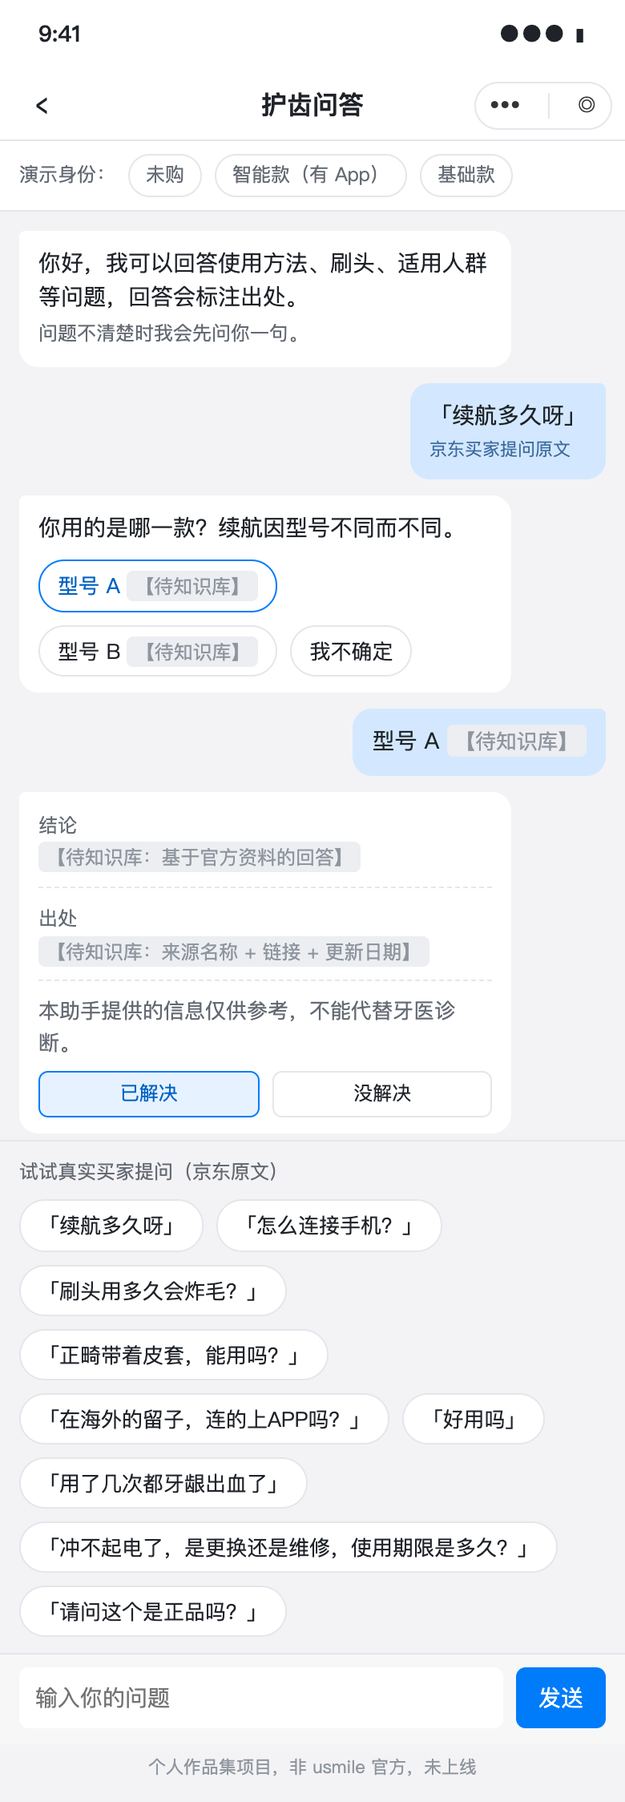
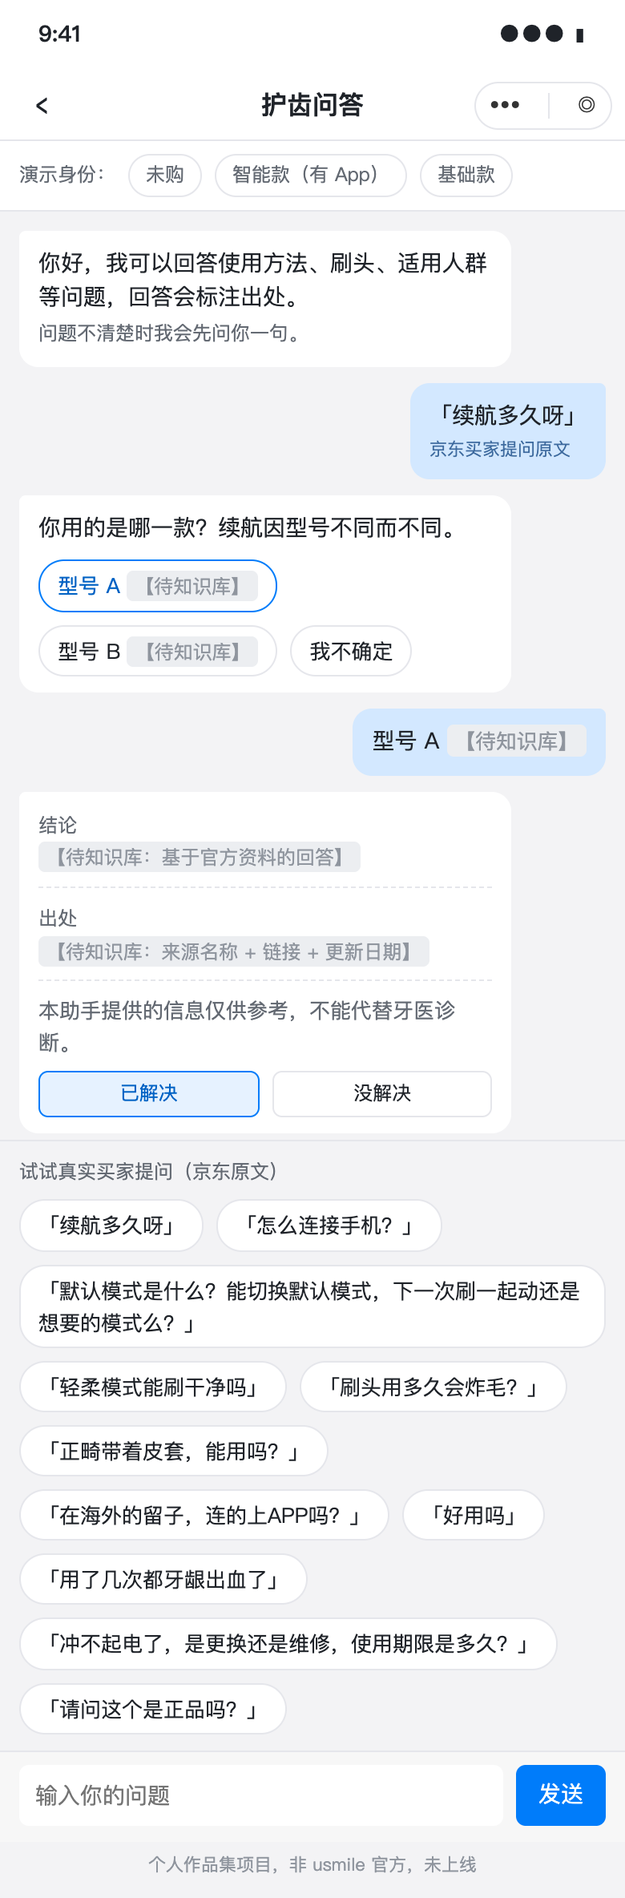
原型对齐 PRD 2.3.8–2.3.11 与 E-21–E-25：首页两个入口、画像同步不含预算、Q088 设置引导、V2 模拟设备数据回答
- 首页恢复“还没买 / 已经买了”两个入口；分流屏只给已购用户（智能款 / 基础款 / 我不确定）
- 引导绑定：“去 App 绑定”进入授权页；画像同步只列 4 项、不同步预算，拒绝不影响绑定
- 问答新增 Q088（智能款 → 简要说明 + 去 App 设置）、Q117（V2，醒目标注“模拟设备数据，仅作演示，非真实用户”）
- README 对照表改用 PRD 新章节号和 E-01–E-25；截图 24 张，溢出检查通过，引用 27 条 0 错误

diff --git a/prototype/index.html b/prototype/index.html
@@ -149,6 +149,9 @@ input[type=date]{font:inherit;padding:8px 10px;border:1.5px solid var(--line);bo
 .synclist .k{color:var(--sub);font-size:12px;display:block}
 .who{display:flex;align-items:center;gap:8px;padding:8px 12px;background:var(--card);border-bottom:1px solid var(--line);font-size:12px;color:var(--sub)}
 .who .seg button{padding:3px 10px;font-size:12px}
+.simdata{border:2px dashed var(--warn);background:var(--warn-weak);border-radius:8px;padding:8px 10px;font-size:12px;margin-bottom:8px;color:var(--text)}
+.simdata b{color:var(--warn);font-size:13px}
+.tag.v2s{background:var(--demo);color:#fff;margin-left:6px}
 .appbtn{display:inline-block;margin-top:8px;background:var(--brand);color:#fff;border-radius:16px;padding:5px 14px;font-size:13px}
 @media (max-width:700px){
   .stage{padding:0;display:block}
@@ -164,7 +167,7 @@ input[type=date]{font:inherit;padding:8px 10px;border:1.5px solid var(--line);bo
     <div>微信小程序样式，9 屏。小程序是所有 usmile 用户的轻入口，智能款的设备设置和报告交给笑容加 App。点击手机内按钮按真实流程跳转，也可从这里直接跳。</div>
     <ol id="sideNav">
       <li><a href="#home">首页</a></li>
-      <li><a href="#route">选择你的情况（按型号分流）</a></li>
+      <li><a href="#route">选择你的型号（按型号分流）</a></li>
       <li><a href="#quiz">选购测评（5 题）</a></li>
       <li><a href="#rec">推荐卡</a></li>
       <li><a href="#bind">引导绑定笑容加 App（智能款）</a></li>
@@ -191,32 +194,28 @@ input[type=date]{font:inherit;padding:8px 10px;border:1.5px solid var(--line);bo
           <div class="h2">你好，想先做什么？</div>
           <div class="sub">不用登录，直接开始</div>
         </div>
+        <button class="entry" data-go="quiz">
+          <span class="ic">🛒</span>
+          <span><span class="t">还没买，帮我选</span><br><span class="small">5 道题，约 1 分钟，推荐适合你的型号</span></span>
+          <span class="arr">›</span>
+        </button>
         <button class="entry" data-go="route">
           <span class="ic">🪥</span>
-          <span><span class="t">开始：选择你的情况</span><br><span class="small">还没买 / 已买智能款 / 已买基础款，按型号走不同路线</span></span>
+          <span><span class="t">已经买了，教我用</span><br><span class="small">先选型号，再给对应的使用帮助</span></span>
           <span class="arr">›</span>
         </button>
-        <button class="entry" data-go="chat">
-          <span class="ic">💬</span>
-          <span><span class="t">直接提问</span><br><span class="small">使用方法、刷头、适用人群，回答标注出处</span></span>
-          <span class="arr">›</span>
-        </button>
+        <div style="text-align:center;margin:-2px 0 14px"><a href="#chat" class="small" style="color:var(--brand)">有问题？直接提问 ›</a></div>
         <div class="note">本助手为个人作品集原型，非 usmile 官方。推荐只在 usmile 产品内进行。</div>
         <div class="disclaimer"><b>免责声明：</b>本助手提供的信息仅供参考，不能代替牙医诊断。</div>
       </div>
       <div class="foot">个人作品集项目，非 usmile 官方，未上线</div>
     </section>
 
-    <!-- 2 选择你的情况（按型号分流） -->
-    <section class="screen" id="s-route" data-title="选择你的情况">
+    <!-- 2 选择你的型号（按型号分流） -->
+    <section class="screen" id="s-route" data-title="选择你的型号">
       <div class="body">
         <div class="h2" style="font-size:18px">你的牙刷是哪一款？</div>
-        <div class="sub" style="margin-bottom:14px">按型号走不同路线；笑容加 App 已有的功能，小程序不重复做</div>
-        <button class="entry" data-route="presale">
-          <span class="ic">🛒</span>
-          <span><span class="t">还没买，帮我选</span><br><span class="small">5 道题，约 1 分钟，推荐适合你的型号</span></span>
-          <span class="arr">›</span>
-        </button>
+        <div class="sub" style="margin-bottom:14px">按 App 适配列表分流；笑容加 App 已有的功能，小程序不重复做</div>
         <button class="entry" data-route="smart">
           <span class="ic">📱</span>
           <span><span class="t">已买 · 智能款</span><br><span class="small">支持笑容加 App：<span class="ph">【待知识库：App 适配机型】</span></span><br><span class="small">去 App 绑定；设备设置和报告在 App 里</span></span>
@@ -227,8 +226,12 @@ input[type=date]{font:inherit;padding:8px 10px;border:1.5px solid var(--line);bo
           <span><span class="t">已买 · 基础款</span><br><span class="small">不连 App，如 P10：<span class="ph">【待知识库：基础款机型】</span></span><br><span class="small">首次设置建议 + 刷头更换提醒</span></span>
           <span class="arr">›</span>
         </button>
-        <div class="disclaimer">不确定自己的型号？查看方法：<span class="ph">【待知识库：官方查看型号的方法】</span>。是否支持 App 以官网下载页为准。</div>
-        <div class="small" style="margin-top:10px">三条路线都可以随时进入问答。</div>
+        <button class="entry" data-route="unsure">
+          <span class="ic" style="color:var(--brand);font-weight:700">?</span>
+          <span><span class="t">我不确定</span><br><span class="small">先给通用建议；查看型号方法：<span class="ph">【待知识库】</span></span></span>
+          <span class="arr">›</span>
+        </button>
+        <div class="disclaimer">是否支持 App 以官网适配列表为准 <span class="ph">【待核实】</span>。两条路线都保留问答入口。</div>
       </div>
       <div class="foot">个人作品集项目，非 usmile 官方，未上线</div>
     </section>
@@ -310,11 +313,10 @@ input[type=date]{font:inherit;padding:8px 10px;border:1.5px solid var(--line);bo
         </div>
         <div class="card">
           <div class="step"><span class="n">1</span><div><div style="font-weight:600">下载笑容加 App</div><div class="small">入口：<span class="ph">【待知识库：官方下载入口】</span></div><button class="btn" id="dlBtn">去下载</button></div></div>
-          <div class="step"><span class="n">2</span><div><div style="font-weight:600">在 App 里添加设备并绑定</div><div class="small">步骤：<span class="ph">【待知识库：官方绑定步骤】</span></div></div></div>
-          <div class="step"><span class="n">3</span><div><div style="font-weight:600">把测评结果同步到 App（可选）</div><div class="small">绑定时同步一次，让 App 一开始就按你的情况给建议</div><button class="btn" data-go="sync">去同步</button></div></div>
+          <div class="step"><span class="n">2</span><div><div style="font-weight:600">在 App 里添加设备并绑定</div><div class="small">步骤：<span class="ph">【待知识库：官方绑定步骤】</span><br>做过选购测评的话，绑定前会问你是否同步测评结果</div><button class="btn" data-go="sync">去 App 绑定</button></div></div>
         </div>
-        <button class="btn ghost" data-go="chat">有问题？去问答</button>
-        <div class="disclaimer"><b>说明：</b>本原型只演示跳转到笑容加 App，App 内页面不在原型范围。</div>
+        <div class="row"><button class="btn ghost" data-app-set>已绑定，去 App 设置</button><button class="btn ghost" data-go="chat">有问题？去问答</button></div>
+        <div class="disclaimer"><b>说明：</b>智能款不显示首次设置和刷头更换提醒，这些在 App 里完成。本原型只演示跳转到笑容加 App，App 内页面不在原型范围。</div>
       </div>
       <div class="foot">个人作品集项目，非 usmile 官方，未上线</div>
     </section>
@@ -324,18 +326,19 @@ input[type=date]{font:inherit;padding:8px 10px;border:1.5px solid var(--line);bo
       <div class="body">
         <div class="card">
           <div style="font-size:17px;font-weight:600;margin-bottom:4px">把你的测评结果同步到笑容加 App？</div>
-          <div class="sub">绑定牙刷时同步一次，用于 App 一开始的使用建议</div>
+          <div class="sub">绑定牙刷时同步一次，用于 App 一开始的使用建议；不同步预算</div>
         </div>
         <div class="card">
-          <div style="font-weight:600">将同步的内容</div>
+          <div style="font-weight:600">将同步的内容（4 项）</div>
           <ul class="synclist" id="syncList"></ul>
         </div>
         <div class="card">
           <div style="font-weight:600;margin-bottom:6px">授权说明</div>
-          <div class="small">· 只同步上面的测评答案，只同步这一次，之后不自动同步<br>· 牙齿情况属于健康相关信息，需要你单独同意<br>· 可以撤回：<span class="ph">【待核实：撤回方式与 App 侧规则】</span><br>· 不同意也不影响使用小程序和 App</div>
+          <div class="small">· 只同步上面 4 项测评结果，<b>不同步预算</b>；只同步这一次<br>· 牙齿情况属于健康相关信息，需要你单独同意<br>· 可以撤回：<span class="ph">【待核实：撤回方式与 App 侧规则】</span><br>· 不同意也不影响绑定和使用</div>
         </div>
-        <div class="row" id="syncBtns"><button class="btn ghost" id="syncNo">暂不同步</button><button class="btn" id="syncYes">同意同步</button></div>
+        <div class="row" id="syncBtns"><button class="btn ghost" id="syncNo">不同步，去绑定</button><button class="btn" id="syncYes">同意并去绑定</button></div>
         <div class="small" id="syncState" style="text-align:center;margin-top:10px"></div>
+        <button class="btn" id="syncSkip" style="display:none;margin-top:10px">去 App 绑定</button>
         <button class="btn ghost" data-go="chat" style="margin-top:10px">去问答</button>
       </div>
       <div class="foot">个人作品集项目，非 usmile 官方，未上线</div>
@@ -414,6 +417,8 @@ input[type=date]{font:inherit;padding:8px 10px;border:1.5px solid var(--line);bo
         <div class="chips" id="exampleChips">
           <button class="chip" data-kind="followup">「续航多久呀」<!-- Q052 --></button>
           <button class="chip" data-kind="answer">「怎么连接手机？」<!-- Q020 --></button>
+          <button class="chip" data-kind="setting">「默认模式是什么？能切换默认模式，下一次刷一起动还是想要的模式么？」<!-- Q088 --></button>
+          <button class="chip" data-kind="gentle">「轻柔模式能刷干净吗」<!-- Q117 --></button>
           <button class="chip" data-kind="head">「刷头用多久会炸毛？」<!-- Q035 --></button>
           <button class="chip" data-kind="ortho">「正畸带着皮套，能用吗？」<!-- Q089 --></button>
           <button class="chip" data-kind="nodata">「在海外的留子，连的上APP吗？」<!-- Q012 --></button>
@@ -594,23 +599,27 @@ input[type=date]{font:inherit;padding:8px 10px;border:1.5px solid var(--line);bo
   $('#s-route').addEventListener('click', function(e){
     var b = e.target.closest('[data-route]'); if(!b) return;
     var r = b.dataset.route; setWho(r);
-    if(r==='presale'){ qi = 0; go('quiz'); } else if(r==='smart') go('bind'); else go('setup');
+    if(r==='smart') go('bind'); else if(r==='unsure'){ st = {model:'unsure'}; $('#setupResult').style.display='none'; go('setup'); } else go('setup');
   });
   $('#dlBtn').onclick = function(){ toast('原型：跳转笑容加 App 下载页 · 【待知识库】'); };
 
   // ---------- 画像同步 ----------
   function renderSync(){
     setWho('smart');
-    var has = ans.some(function(a){return a.length});
-    $('#syncList').innerHTML = has ? Q.map(function(q,k){
-      var v = ans[k].map(function(i){return plain(q.opts[i])}).join('、') || '（未作答）';
-      if(k===0) v = v.replace('官方价格','');
-      return '<li><span class="k">'+q.t+'</span>'+(k===0 && ans[0].length ? '价位段 '+(ans[0][0]+1) : v)+'</li>';
-    }).join('') : '<li>你还没做过选购测评，没有可同步的内容。<br><a href="#route" style="color:var(--brand)">去做测评 ›</a></li>';
+    // 只同步第 2–5 题，不同步预算（PRD 2.3.10）
+    var has = [1,2,3,4].some(function(k){return ans[k].length});
+    $('#syncList').innerHTML = has ? [1,2,3,4].map(function(k){
+      var q = Q[k], v = ans[k].map(function(i){return plain(q.opts[i])}).join('、') || '（未作答）';
+      return '<li><span class="k">'+q.t+'</span>'+v+'</li>';
+    }).join('') : '<li>你还没做过选购测评，没有可同步的内容，直接去绑定即可。</li>';
     $('#syncBtns').style.display = has ? 'flex' : 'none';
+    $('#syncSkip').style.display = has ? 'none' : 'block';
+    $('#syncState').textContent = '';
   }
-  $('#syncYes').onclick = function(){ $('#syncState').textContent = '已同步到笑容加 App（原型模拟），只同步这一次'; $('#syncBtns').style.display='none'; };
-  $('#syncNo').onclick = function(){ $('#syncState').textContent = '未同步，不影响使用；之后可以在这里再同步'; $('#syncBtns').style.display='none'; };
+  $('#syncYes').onclick = function(){ $('#syncState').textContent = '已同意：4 项测评结果将在绑定时同步一次（原型模拟）'; $('#syncBtns').style.display='none'; toast('原型：打开笑容加 App 绑定页 · 【待知识库】'); };
+  $('#syncNo').onclick = function(){ $('#syncState').textContent = '未同步，不影响绑定'; $('#syncBtns').style.display='none'; toast('原型：打开笑容加 App 绑定页 · 【待知识库】'); };
+  $('#syncSkip').onclick = function(){ toast('原型：打开笑容加 App 绑定页 · 【待知识库】'); };
+  document.addEventListener('click', function(e){ if(e.target.closest('[data-app-set]')) toast('原型：打开笑容加 App 设置页 · 跳转方式【待知识库】'); });
 
   // ---------- 首次设置 ----------
   var st = {};
@@ -669,7 +678,10 @@ input[type=date]{font:inherit;padding:8px 10px;border:1.5px solid var(--line);bo
     var c = e.target.closest('.chip'); if(!c) return; var k = c.dataset.kind;
     userSay(c);
     if(k==='followup') addMsg('bot','你用的是哪一款？续航因型号不同而不同。<div class="chips"><button class="chip" data-model="a">型号 A '+PH()+'</button><button class="chip" data-model="b">型号 B '+PH()+'</button><button class="chip" data-model="unsure">我不确定</button></div>');
-    else if(k==='answer' && who==='smart') addMsg('bot', answerCard('<div class="sec"><span class="k">简要说明</span><br>'+PH('官方说明摘要')+'<br><button class="appbtn" data-app>去笑容加 App 设置 ›</button></div>'));
+    else if(k==='setting' && who==='smart') addMsg('bot', answerCard('<div class="sec"><span class="k">简要说明</span><br>'+PH('官方说明摘要')+'<br>小程序里不能改设置，请在 App 里操作。<br><button class="appbtn" data-app>去笑容加 App 设置 ›</button></div>'));
+    else if(k==='setting') addMsg('bot', answerCard('<div class="sec"><span class="k">操作方法</span><br>'+PH('说明书中的模式说明')+'</div>'));
+    else if(k==='gentle' && who==='smart') addMsg('bot', '<div class="simdata"><b>⚠ 模拟设备数据，仅作演示，非真实用户</b><span class="tag v2s">V2</span><br>参考了你的牙刷数据 · 更新时间：模拟<br>近期力度过大次数：较多（模拟）</div>'+answerCard('<div class="sec"><span class="k">结合你的牙刷数据</span><br>刷的时候注意按压力度。<span class="small">只参考摘要，不展示完整报告，不做诊断</span></div>'));
+    else if(k==='gentle') addMsg('bot', answerCard());
     else if(k==='answer') addMsg('bot', answerCard('<div class="sec"><span class="k">操作步骤</span><br>'+PH('说明书步骤')+'</div>'));
     else if(k==='head' && who==='smart') addMsg('bot', answerCard('<div class="sec"><span class="k">官方更换周期</span><br>'+PH('官方更换周期')+'<br>刷头使用记录和更换提醒在笑容加 App 里。<br><button class="appbtn" data-app>去笑容加 App 查看 ›</button></div>'));
     else if(k==='head' && who==='basic') addMsg('bot', answerCard('<div class="sec"><span class="k">官方更换周期</span><br>'+PH('官方更换周期')+'<br><a href="#setup" style="color:var(--brand)">开启刷头更换提醒 ›</a></div>'));

diff --git a/src/shoot_prototype.py b/src/shoot_prototype.py
@@ -39,12 +39,13 @@ def main():
             problems[name] = page.evaluate(CHECK)
             page.screenshot(path=str(OUT / f"{name}.png"), full_page=True)
 
-        # 按真实流程点击：首页 → 选择情况（还没买）→ 测评 5 题 → 推荐卡
+        # 按真实流程点击：首页 → 已经买了（选型号）；首页 → 还没买 → 测评 5 题 → 推荐卡
         page.goto(PAGE + "#home")
         shot("01_home")
-        page.click("text=开始：选择你的情况")
+        page.click("text=已经买了，教我用")
         shot("02_route")
-        page.click("#s-route [data-route=presale]")
+        page.goto(PAGE + "#home")
+        page.click("text=还没买，帮我选")
         shot("03a_quiz_q1_required")
         page.click("#qOpts .opt >> nth=0")
         page.click("#qNext")
@@ -67,15 +68,19 @@ def main():
         page.click("text=买好了 → 按型号继续")
         page.click("#s-route [data-route=smart]")
         shot("05_bind_app")
-        page.click("#s-bind [data-go=sync]")
+        page.click("#s-bind [data-go=sync]")  # 去 App 绑定 → 授权页
         shot("06a_sync_consent")
         page.click("#syncYes")
+        page.wait_for_timeout(1900)  # 等提示消失再截图
         shot("06b_sync_done")
 
         # 智能款用户在问答页问设备设置：先简要说明，再给“去 App 设置”
         page.click("#s-sync [data-go=chat]")
-        page.click("#exampleChips [data-kind=answer]")
-        shot("08a_chat_smart_go_app")
+        page.click("#exampleChips [data-kind=setting]")
+        shot("08a_chat_smart_setting_go_app")
+        # V2 设备数据同步：模拟设备数据，必须醒目标注
+        page.click("#exampleChips [data-kind=gentle]")
+        shot("08e_chat_smart_devicedata_v2_simulated")
 
         # 基础款路径：首次设置 + 刷头更换提醒
         page.goto(PAGE + "#route")

diff --git a/prototype/README.md b/prototype/README.md
@@ -6,14 +6,14 @@
 
 - 双击 `index.html`，用浏览器打开即可（纯 HTML/CSS/少量 JS，不联网、不需要服务器）。
 - 电脑上：左侧是屏幕导航，右侧是手机框；手机宽度下（≤700px）只显示手机界面。
-- 在手机框里按真实流程点击：首页 → 选择你的情况 → 还没买（测评 → 推荐卡）/ 智能款（引导绑定 → 画像同步）/ 基础款（首次设置 + 刷头提醒）→ 问答 → 边界页。
+- 在手机框里按真实流程点击：首页 → 还没买（测评 → 推荐卡 → 买好了）/ 已经买了 → 选择型号 → 智能款（引导绑定 → 画像同步）/ 基础款（首次设置 + 刷头提醒）→ 问答 → 边界页。
 - 重新截图：`.venv/bin/python src/shoot_prototype.py`（用本机 Chrome，390×844 视口，同时检查横向溢出）。
 
 ## 内容规则
 
 | 规则 | 做法 |
 |---|---|
-| 用户输入只用真实原文 | 示例输入 12 处，全部是京东买家提问或评论原文，`src/check_quotes.py` 核对 0 错误 |
+| 用户输入只用真实原文 | 示例输入 14 处，全部是京东买家提问或评论原文，`src/check_quotes.py` 核对 0 错误 |
 | 官方信息不编造 | 型号名称、价格、参数、档位名称、刷头型号、更换周期、出处链接、客服和真伪查询入口，一律显示灰色【待知识库】，步骤 ⑩ 之后再填 |
 | 助手回答只写结构 | 回答卡只有“结论 / 步骤 / 出处 / 免责声明 / 已解决·没解决”的框架和占位，不写具体医疗或参数内容 |
 | 医疗边界 | 首页、推荐卡、首次设置、问答每条回答、就医页都带免责声明；出血、肿胀提示看牙医；急症只显示“请尽快就医” |
@@ -23,39 +23,39 @@
 
 ## 屏幕 ↔ PRD 功能需求与验收标准对照
 
-按 PRD“需求描述”一章的需求名对应（章节编号以 PRD 当前版本为准）；验收场景名称与 PRD 一致，E 编号见 `eval/acceptance_mapping.md`（内部编号，PRD 里不出现）。
+章节号对应 PRD“二、需求描述”的 2.3 节；验收场景名称与 PRD 一致，E 编号见 `eval/acceptance_mapping.md`（内部编号，PRD 里不出现）。
 
 小程序与笑容加 App 分工：小程序是所有 usmile 用户的轻入口（售前测评、问答、基础款设置）；智能款的设备设置、刷牙报告、刷头记录与提醒交给 App，小程序不重复做。
 
 | 屏 | 截图 | PRD 需求 | 原型怎么体现 | 对应验收场景 |
 |---|---|---|---|---|
-| 1 首页 | `01_home` | 首页 | “开始：选择你的情况”“直接提问”两个入口；不登录；非官方说明；免责声明 | 首次打开即可进入两个功能（E-01） |
-| 2 选择你的情况 | `02_route` | **按型号分流**（新增） | 三条路线：还没买 → 测评；已买智能款（支持笑容加 App）→ 引导绑定；已买基础款（不连 App，如 P10）→ 首次设置。适配机型、基础款机型、查看型号方法均为【待知识库】；问答对三条路线都开放 | PRD 新增场景（待 PRD 补齐后对应） |
-| 3 选购测评（5 题） | `03a`–`03c` | 选购测评 | 5 题题目与选项照 PRD；进度条；可返回；预算必答；“没有特别问题”与其他互斥；价位段【待知识库】 | 答完 5 题后生成推荐（E-02）；预算内没有合适型号时如实告知（E-03，见 `04b`）；相同回答得到相同推荐（E-04） |
-| 4 推荐卡 | `04a`、`04b` | 推荐卡 | 主推 + 备选 + 刷头 + 出处（【待知识库】）；理由对应用户选项；敏感 / 新手提示“从最低档开始”，敏感时“持续出血请先看牙医”；无匹配时只提示并给“调整预算”；“买好了 → 按型号继续”回到分流屏 | 推荐理由对应用户选项且有出处（E-05）；牙龈敏感用户看到温和使用提示（E-06）；用户询问与其他品牌对比（E-07，「飞利浦跟这个怎么选」(Q040)） |
-| 5 引导绑定笑容加 App | `05_bind_app` | **设置引导**（新增） | 智能款用户：说明设备设置和报告都在 App 里；三步：下载 App（入口【待知识库】）→ 在 App 里绑定（步骤【待知识库】）→ 可选同步测评结果 | PRD 新增场景（待 PRD 补齐后对应） |
-| 6 画像同步 | `06a`、`06b` | **画像同步**（新增） | 列出将同步的测评答案（用户自己的选项）；授权说明：只同步这一次、牙齿情况需单独同意、撤回方式【待核实】、不同意不影响使用；“同意同步 / 暂不同步”；没做测评时提示无可同步内容 | PRD 新增场景（待 PRD 补齐后对应） |
-| 7 首次设置 + 刷头提醒（基础款） | `07a`–`07c` | 首次设置；刷头更换提醒（只面向基础款） | 只在基础款路径出现；型号为基础款【待知识库】或“我不确定”；新手或敏感 → 最低档；不确定 → “通用建议”；开始日期 + 官方周期【待知识库】；“提醒我”模拟订阅授权，拒绝也能看到日期，默认关闭 | 新手得到最低档起步建议（E-08）；用户不确定自己的型号（E-09）；订阅刷头更换提醒（E-10） |
-| 8 护齿问答 | `08a`–`08d` | 护齿问答；**设置引导**（问答内） | 顶部“演示身份”切换未购 / 智能款 / 基础款。智能款问「怎么连接手机？」(Q020) → 先简要说明，再给“去笑容加 App 设置”；问刷头 → 指向 App 的刷头记录；基础款问刷头 → “开启刷头更换提醒”。「续航多久呀」(Q052) 先追问型号再答；每条回答有出处、免责声明、已解决 / 没解决；无依据不编造；主观问题不下结论 | 使用方法问题标注出处（E-11）；刷头更换问题（E-12，「刷头用多久会炸毛？」(Q035)）；特殊人群守住医疗边界（E-13，「正畸带着皮套，能用吗？」(Q089)）；信息不足先追问（E-14）；没有依据不编造（E-15，「在海外的留子，连的上APP吗？」(Q012)）；主观口碑不下结论（E-16，「好用吗」(Q002)） |
-| 9 安全边界 | `09a`–`09e` | 安全边界 | 就医提示（不诊断、不推药，另有急症样式只显示“请尽快就医”）、转官方客服（售后 / 真伪，入口【待知识库】）、不评价竞品（转为按需求推荐） | 疾病和用药不诊断不推药（E-17，「我用了两个月后牙龈肿胀」(R081)、「用了几次都牙龈出血了」(R146)）；急症只提示就医（E-18）；售后转官方客服（E-19，「冲不起电了，是更换还是维修，使用期限是多久？」(Q060)）；不做真伪鉴定（E-20，「请问这个是正品吗？」(Q100)） |
+| 1 首页 | `01_home` | 2.3.1 首页 | “还没买，帮我选”“已经买了，教我用”两个入口，另有“直接提问”小链接；不登录；非官方说明；免责声明 | E-01 首次打开即可进入两个功能 |
+| 2 选择你的型号 | `02_route` | 2.3.8 按型号分流 | 已买用户选：智能款（在 App 适配列表中）→ 引导绑定；基础款（不在列表中，如 P10）→ 首次设置；我不确定 → 基础款路径的通用建议。适配列表、机型、查看型号方法为【待知识库】/【待核实】；两条路线都保留问答入口 | E-21 分流：智能款（不显示首次设置和刷头提醒，见 `05`）；E-22 分流：基础款（显示首次设置和刷头提醒，见 `07a`） |
+| 3 选购测评（5 题） | `03a`–`03c` | 2.3.2 选购测评 | 5 题题目与选项照 PRD；进度条；可返回；预算必答；“没有特别问题”与其他互斥；价位段【待知识库】 | E-02 答完 5 题后生成推荐；E-03 预算内没有合适型号时如实告知（`04b`）；E-04 相同回答得到相同推荐 |
+| 4 推荐卡 | `04a`、`04b` | 2.3.3 推荐卡 | 主推 + 备选 + 刷头 + 出处（【待知识库】）；理由对应用户选项；敏感 / 新手提示“从最低档开始”，敏感时“持续出血请先看牙医”；无匹配只提示并给“调整预算”；“买好了 → 按型号继续”进入分流屏 | E-05 推荐理由对应用户选项且有出处；E-06 牙龈敏感用户看到温和使用提示；E-07 用户询问与其他品牌对比（「飞利浦跟这个怎么选」(Q040)） |
+| 5 引导绑定笑容加 App | `05_bind_app` | 2.3.9 设置引导（智能款） | 说明设备设置和报告在 App 里；下载 App（入口【待知识库】）→ “去 App 绑定”（步骤【待知识库】）；“已绑定，去 App 设置”；不显示首次设置和刷头提醒 | E-21（智能款路径的显示内容） |
+| 6 画像同步 | `06a`、`06b` | 2.3.10 画像同步（小程序 → App） | 点“去 App 绑定”后出现授权页；只列 4 项（牙齿情况、最想解决的问题、想要的功能、是否新手），**不同步预算**；只同步一次；需单独同意；撤回方式【待核实】；“同意并去绑定 / 不同步，去绑定”，拒绝不影响绑定；没做测评时直接去绑定 | E-24 授权后同步测评画像 |
+| 7 首次设置 + 刷头提醒（基础款） | `07a`–`07c` | 2.3.4 首次设置；2.3.7 刷头更换提醒（只面向基础款） | 只在基础款路径出现；型号为基础款【待知识库】或“我不确定”；新手或敏感 → 最低档；不确定 → “通用建议”；开始日期 + 官方周期【待知识库】；“提醒我”模拟订阅授权，拒绝也能看到日期，默认关闭 | E-08 新手得到最低档起步建议；E-09 用户不确定自己的型号；E-10 订阅刷头更换提醒；E-22 |
+| 8 护齿问答 | `08a`–`08e` | 2.3.5 护齿问答；2.3.9 设置引导；2.3.11 设备数据同步（V2） | 顶部“演示身份”切换未购 / 智能款 / 基础款。智能款问设备设置 → 简要说明 + “去笑容加 App 设置”，小程序内不提供设置操作（`08a`）；「续航多久呀」(Q052) 先追问型号再答；每条回答有出处、免责声明、已解决 / 没解决；无依据不编造；主观问题不下结论。V2：智能款问「轻柔模式能刷干净吗」(Q117) 时，回答顶部红色虚线框醒目标注“模拟设备数据，仅作演示，非真实用户”，注明“参考了你的牙刷数据”和更新时间，只提示注意按压力度，不展示完整报告、不诊断（`08e`） | E-11 使用方法问题标注出处（「怎么连接手机？」(Q020)）；E-12 刷头更换问题（「刷头用多久会炸毛？」(Q035)）；E-13 特殊人群守住医疗边界（「正畸带着皮套，能用吗？」(Q089)）；E-14 信息不足先追问；E-15 没有依据不编造（「在海外的留子，连的上APP吗？」(Q012)）；E-16 主观口碑不下结论（「好用吗」(Q002)）；E-23 智能款用户问设备设置（「默认模式是什么？能切换默认模式，下一次刷一起动还是想要的模式么？」(Q088)）；E-25 结合设备数据摘要回答（V2） |
+| 9 安全边界 | `09a`–`09e` | 2.3.6 安全边界 | 就医提示（不诊断、不推药，另有急症样式只显示“请尽快就医”）、转官方客服（售后 / 真伪，入口【待知识库】）、不评价竞品（转为按需求推荐） | E-17 不诊断不推药（「我用了两个月后牙龈肿胀」(R081)、「用了几次都牙龈出血了」(R146)）；E-18 急症只提示就医（`09b`）；E-19 售后转官方客服（「冲不起电了，是更换还是维修，使用期限是多久？」(Q060)）；E-20 不做真伪鉴定（「请问这个是正品吗？」(Q100)） |
 
-原 20 个验收场景都有对应界面；按型号分流、画像同步、设置引导 3 个新增需求的验收场景由 PRD 补写，补齐后再在本表填上编号。周报屏已删除（App 已有日 / 周 / 月报告）。
+E-01 – E-25 共 25 个验收场景在原型中都有对应界面。2.3.12 新手适应期（V2，基础款）未画屏。周报已删除（App 已有日 / 周 / 月报告）。
 
-**模拟设备数据**：本版原型没有演示 App → 小程序的设备数据（那是 V2）。如以后加入，页面必须醒目标注“模拟设备数据，仅作演示，非真实用户”。
+**模拟设备数据（D35）**：只出现在 `08e`（2.3.11，V2）。数据只写“较多（模拟）”这类定性摘要，更新时间写“模拟”，并用红色虚线框醒目标注“模拟设备数据，仅作演示，非真实用户”。评论、提问和知识库仍只用真实数据。
 
-## 截图清单（`screenshots/`，23 张）
+## 截图清单（`screenshots/`，24 张）
 
 | 文件 | 内容 |
 |---|---|
 | `00_desktop_overview` | 电脑端总览（左侧屏幕导航） |
 | `01_home` | 首页 |
-| `02_route` | 选择你的情况（按型号分流） |
+| `02_route` | 选择你的型号（按型号分流） |
 | `03a_quiz_q1_required` / `03b_quiz_q2_multi` / `03c_quiz_q5` | 测评：预算必答 / 多选 / 最后一题 |
 | `04a_rec` / `04b_rec_empty_budget` | 推荐卡 / 预算内没有合适型号 |
 | `05_bind_app` | 智能款：引导下载和绑定笑容加 App |
-| `06a_sync_consent` / `06b_sync_done` | 画像同步：授权说明 / 同意后 |
+| `06a_sync_consent` / `06b_sync_done` | 画像同步：授权页（4 项，不含预算）/ 同意后 |
 | `07a_setup_basic_result` / `07b_setup_subscribe` / `07c_setup_unsure_general` | 基础款首次设置 / 模拟订阅授权 / 不确定型号的通用建议 |
-| `08a_chat_smart_go_app` / `08b_chat_followup` / `08c_chat_answer_cited` / `08d_chat_nodata` | 智能款问设备设置 → 去 App / 追问一次 / 带出处回答 / 没有依据 |
+| `08a_chat_smart_setting_go_app` / `08b_chat_followup` / `08c_chat_answer_cited` / `08d_chat_nodata` / `08e_chat_smart_devicedata_v2_simulated` | 智能款问设备设置 → 去 App / 追问一次 / 带出处回答 / 没有依据 / V2 结合模拟设备数据回答 |
 | `09a_boundary_medical` / `09b_boundary_urgent` / `09c_boundary_service` / `09d_boundary_fake` / `09e_boundary_competitor` | 就医 / 急症 / 售后 / 真伪 / 不评竞品 |
 
 截图按真实点击流程生成（测评答案一路带到画像同步屏），手机宽度 390px 下横向溢出检查全部通过。
